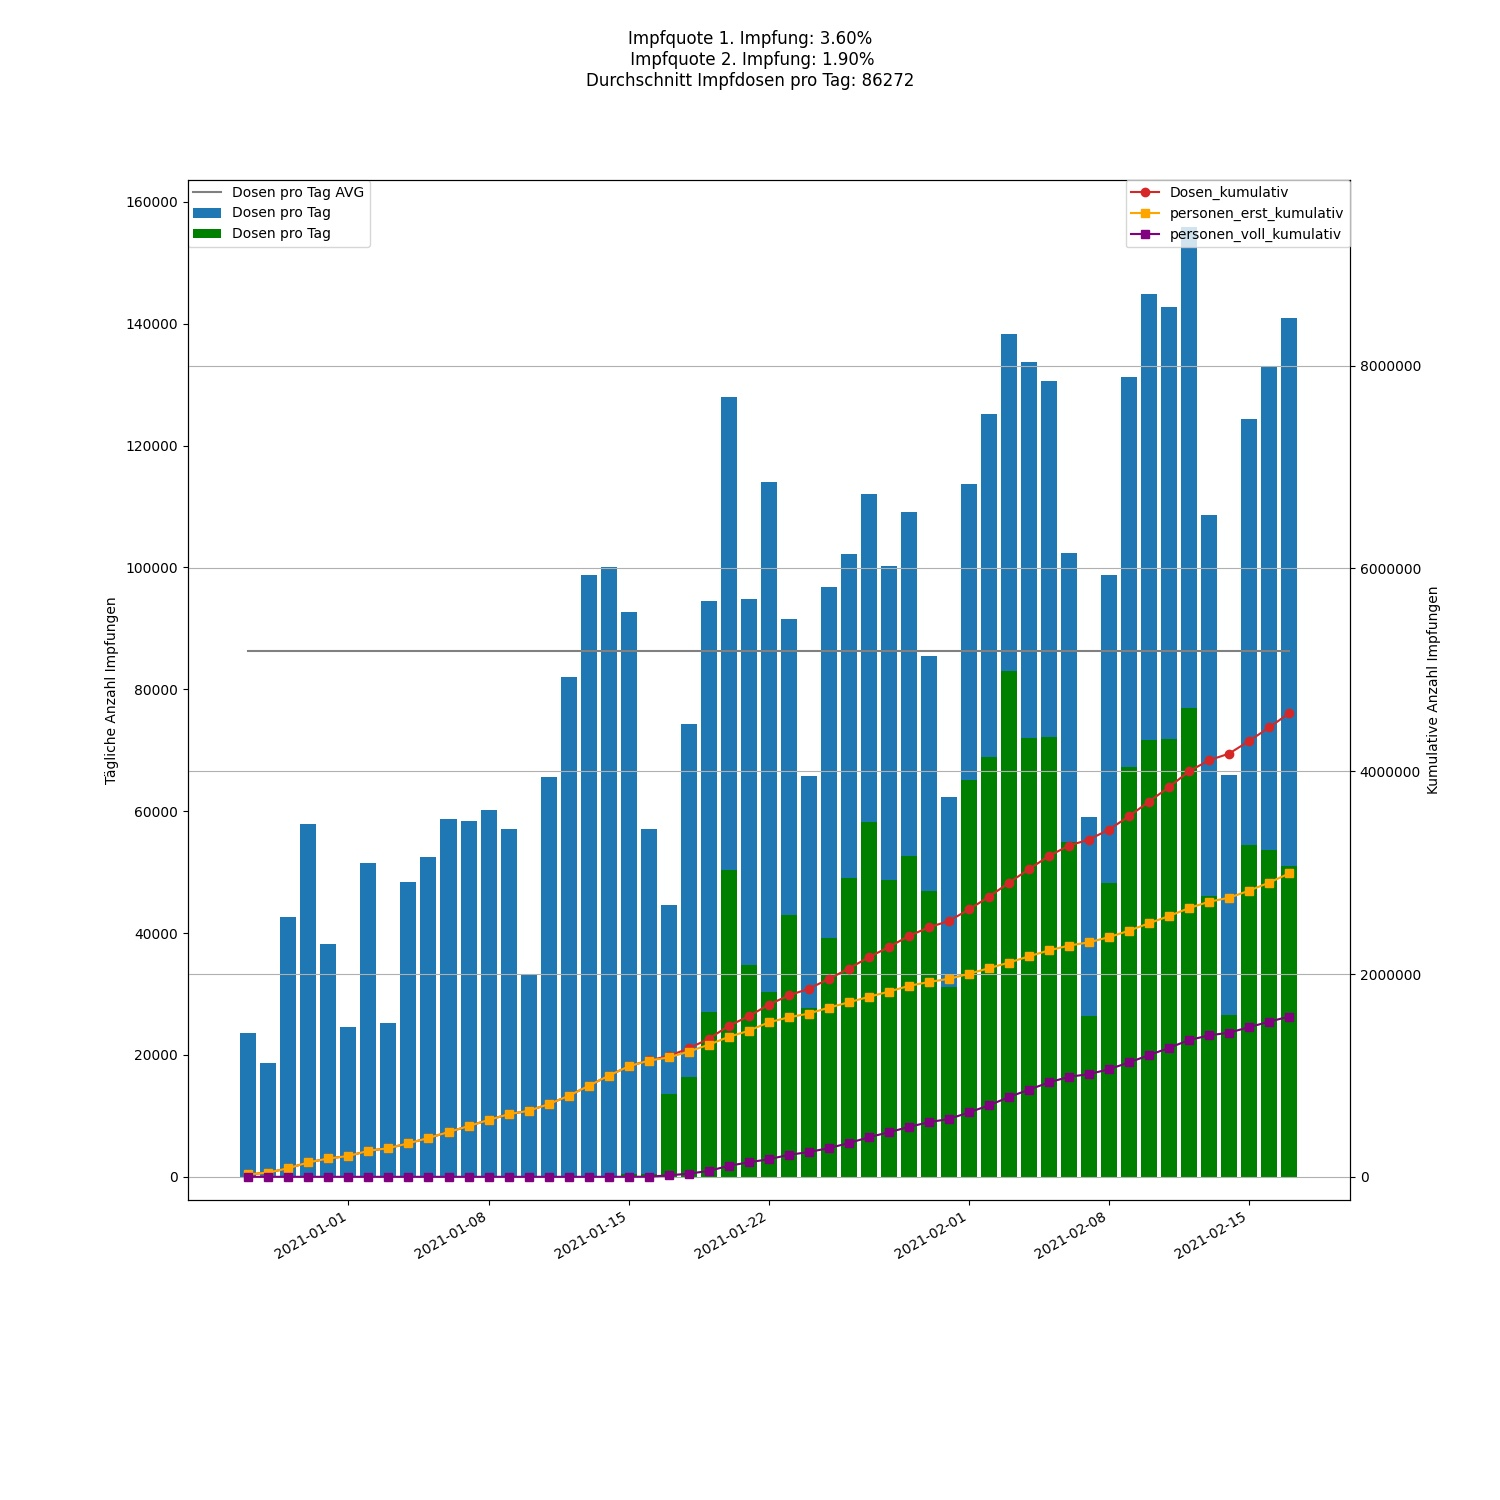
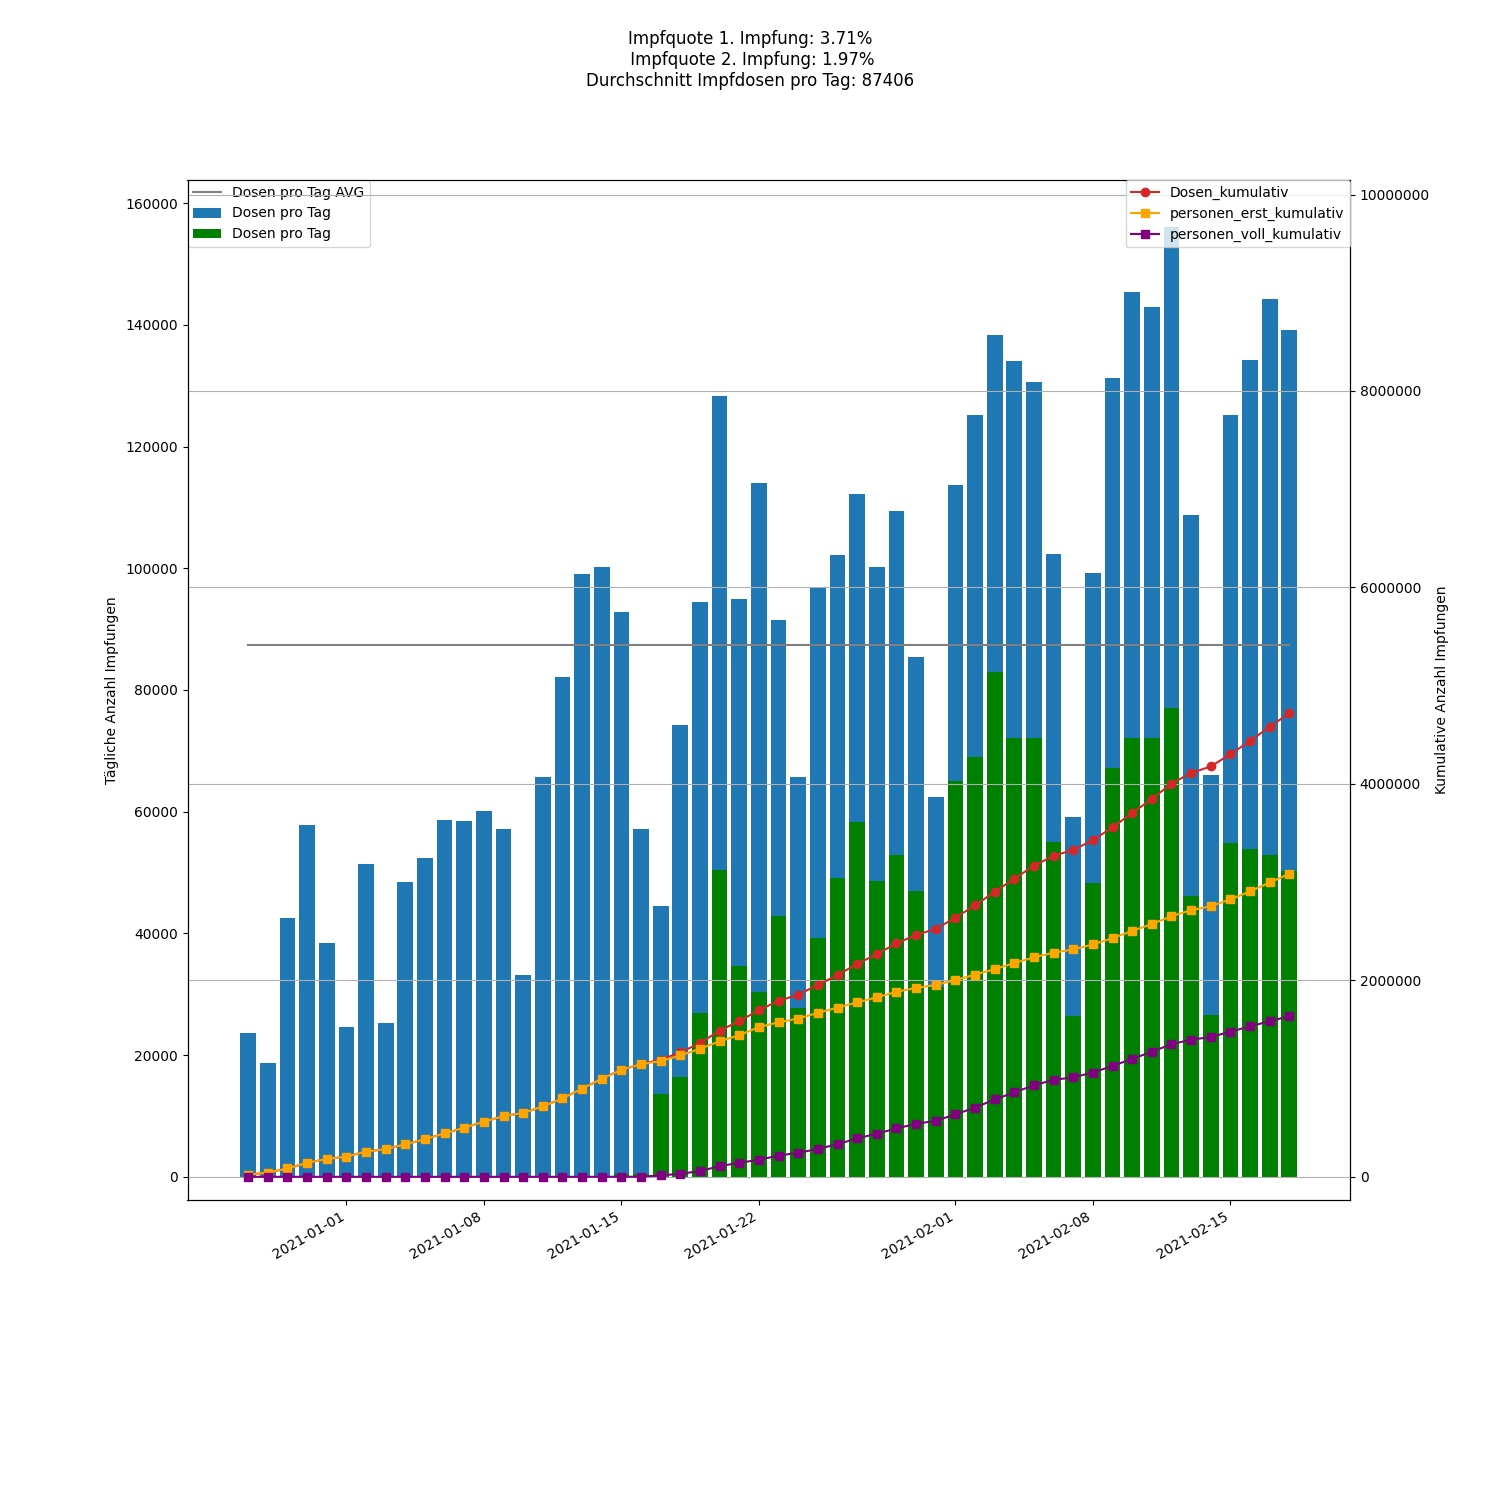
Crontab commit

diff --git a/Readme.md b/Readme.md
@@ -1,19 +1,19 @@
-# Corona vaccine Germany - Stand 2021-02-17
+# Corona vaccine Germany - Stand 2021-02-18
 ## Dashboard by [Simon Hamacher](https://www.shamacher.eu)
 ## Impfstoffe Übersicht
 **Impfstoffhersteller** | **verimpfte Dosen**
 -------- | :--------:
-Biontech | 4359311
-Moderna | 106523
-Astrazeneca | 106586
+Biontech | 4477310
+Moderna | 113569
+Astrazeneca | 129021
 
 
 ## Quoten
-**Total Verimpfte Dosen:** | 4572420
+**Total Verimpfte Dosen:** | 4719900
 -------- | :--------:
-**Erst-Impfquote** | 3.60 %
-**Voll-Impfquote** | 1.90 %
-**Imfungen Durchschnitt** | 86272.08 pro Tag
+**Erst-Impfquote** | 3.71 %
+**Voll-Impfquote** | 1.97 %
+**Imfungen Durchschnitt** | 87405.56 pro Tag
 ## Graphen
 <img src="Impfungen-Corona-01.jpg" alt="Corona-1" title="optionaler Titel" />
 <img src="Impfungen-Corona-02.jpg" alt="Corona-2" title="optionaler Titel" />
